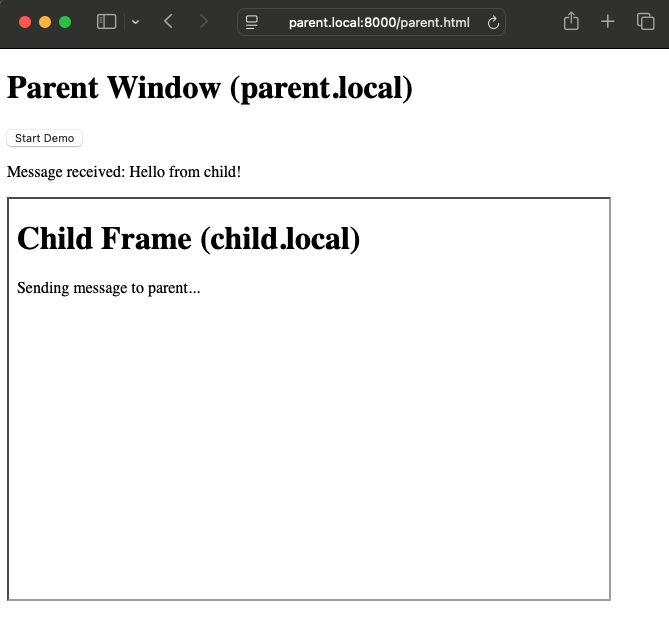
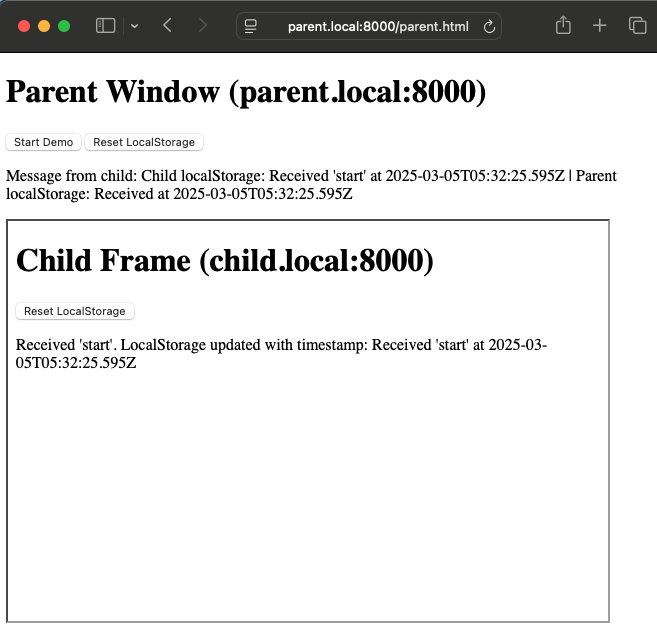
update demo to use localstorage

diff --git a/parent.html b/parent.html
@@ -5,25 +5,58 @@
   <title>PostMessage Demo - Parent</title>
 </head>
 <body>
-  <h1>Parent Window (parent.local)</h1>
+  <h1>Parent Window (parent.local:8000)</h1>
   <button id="startButton">Start Demo</button>
-  <p id="status">Waiting for message...</p>
+  <button id="resetButton">Reset LocalStorage</button>
+  <p id="status">
+    Waiting for message... LocalStorage: <span id="localStorageValue">(none)</span>
+  </p>
   
+  <!-- Iframe hosted on a different domain -->
   <iframe id="childFrame" src="http://child.local:8000/child.html" width="600" height="400"></iframe>
 
   <script>
+    // Helper to update the display of parent's localStorage value.
+    function updateLocalStorageDisplay() {
+      const value = localStorage.getItem("parentTimestamp") || "(none)";
+      document.getElementById("localStorageValue").textContent = value;
+    }
+    
+    // Reset parent's localStorage when the reset button is clicked.
+    document.getElementById("resetButton").addEventListener("click", function() {
+      localStorage.removeItem("parentTimestamp");
+      updateLocalStorageDisplay();
+      document.getElementById("status").textContent = "LocalStorage reset. Waiting for message...";
+    });
+
+    // Listen for messages from the child iframe.
     window.addEventListener("message", function(event) {
+      // Verify the origin for security.
       if (event.origin === "http://child.local:8000") {
-        document.getElementById("status").textContent = "Message received: " + event.data;
+        // Update parent's localStorage with a timestamp.
+        const timestamp = new Date().toISOString();
+        localStorage.setItem("parentTimestamp", "Received at " + timestamp);
+        updateLocalStorageDisplay();
+        // Update the on-screen message with both the received data and parent's localStorage.
+        document.getElementById("status").textContent =
+          "Message from child: " + event.data +
+          " | Parent localStorage: " + localStorage.getItem("parentTimestamp");
       } else {
         console.log("Ignored message from unknown origin:", event.origin);
       }
     }, false);
 
+    // When the Start Demo button is clicked, update parent's localStorage and send a "start" message.
     document.getElementById("startButton").addEventListener("click", function() {
+      const timestamp = new Date().toISOString();
+      localStorage.setItem("parentTimestamp", "Started at " + timestamp);
+      updateLocalStorageDisplay();
       var iframe = document.getElementById("childFrame");
       iframe.contentWindow.postMessage("start", "http://child.local:8000");
     });
+
+    // Initial update of the display on page load.
+    updateLocalStorageDisplay();
   </script>
 </body>
 </html>

diff --git a/child.html b/child.html
@@ -5,20 +5,46 @@
   <title>PostMessage Demo - Child</title>
 </head>
 <body>
-  <h1>Child Frame (child.local)</h1>
-  <p id="childStatus">Waiting for command...</p>
+  <h1>Child Frame (child.local:8000)</h1>
+  <button id="resetButton">Reset LocalStorage</button>
+  <p id="childStatus">
+    Waiting for command... LocalStorage: <span id="childLocalStorageValue">(none)</span>
+  </p>
 
   <script>
+    // Helper to update the display of child's localStorage value.
+    function updateLocalStorageDisplay() {
+      const value = localStorage.getItem("childTimestamp") || "(none)";
+      document.getElementById("childLocalStorageValue").textContent = value;
+    }
+
+    // Reset child's localStorage when the reset button is clicked.
+    document.getElementById("resetButton").addEventListener("click", function() {
+      localStorage.removeItem("childTimestamp");
+      updateLocalStorageDisplay();
+      document.getElementById("childStatus").textContent = "LocalStorage reset. Waiting for command...";
+    });
+
+    // Listen for messages from the parent.
     window.addEventListener("message", function(event) {
+      // Verify the origin for security.
       if (event.origin === "http://parent.local:8000") {
         if (event.data === "start") {
-          document.getElementById("childStatus").textContent = "Sending message to parent...";
-          window.parent.postMessage("Hello from child!", "http://parent.local:8000");
+          const timestamp = new Date().toISOString();
+          localStorage.setItem("childTimestamp", "Received 'start' at " + timestamp);
+          updateLocalStorageDisplay();
+          document.getElementById("childStatus").textContent =
+            "Received 'start'. LocalStorage updated with timestamp: " + localStorage.getItem("childTimestamp");
+          // Send a reply back to the parent including the child's localStorage value.
+          window.parent.postMessage("Child localStorage: " + localStorage.getItem("childTimestamp"), "http://parent.local:8000");
         }
       } else {
         console.log("Ignored message from unknown origin:", event.origin);
       }
     }, false);
+
+    // Initial update of the display on page load.
+    updateLocalStorageDisplay();
   </script>
 </body>
 </html>

diff --git a/README.md b/README.md
@@ -46,6 +46,6 @@ Here are a couple of screenshots from the demo:
 
 1. *Start the Demo*: Click the "Start Demo" button on the parent page. This sends a "start" message to the child frame using postMessage.
 
-2. *Child Receives the Message*: The child page listens for the "start" message, updates its status text, and sends back a reply ("Hello from child!").
+2. *Child Receives the Message*: The child page listens for the "start" message with a timestamp, updates its status text, and sends back a reply timestamp.
 
 3. *Parent Receives the Reply*: The parent page listens for messages from the child, verifies the origin, and updates its status text upon receiving the message.
